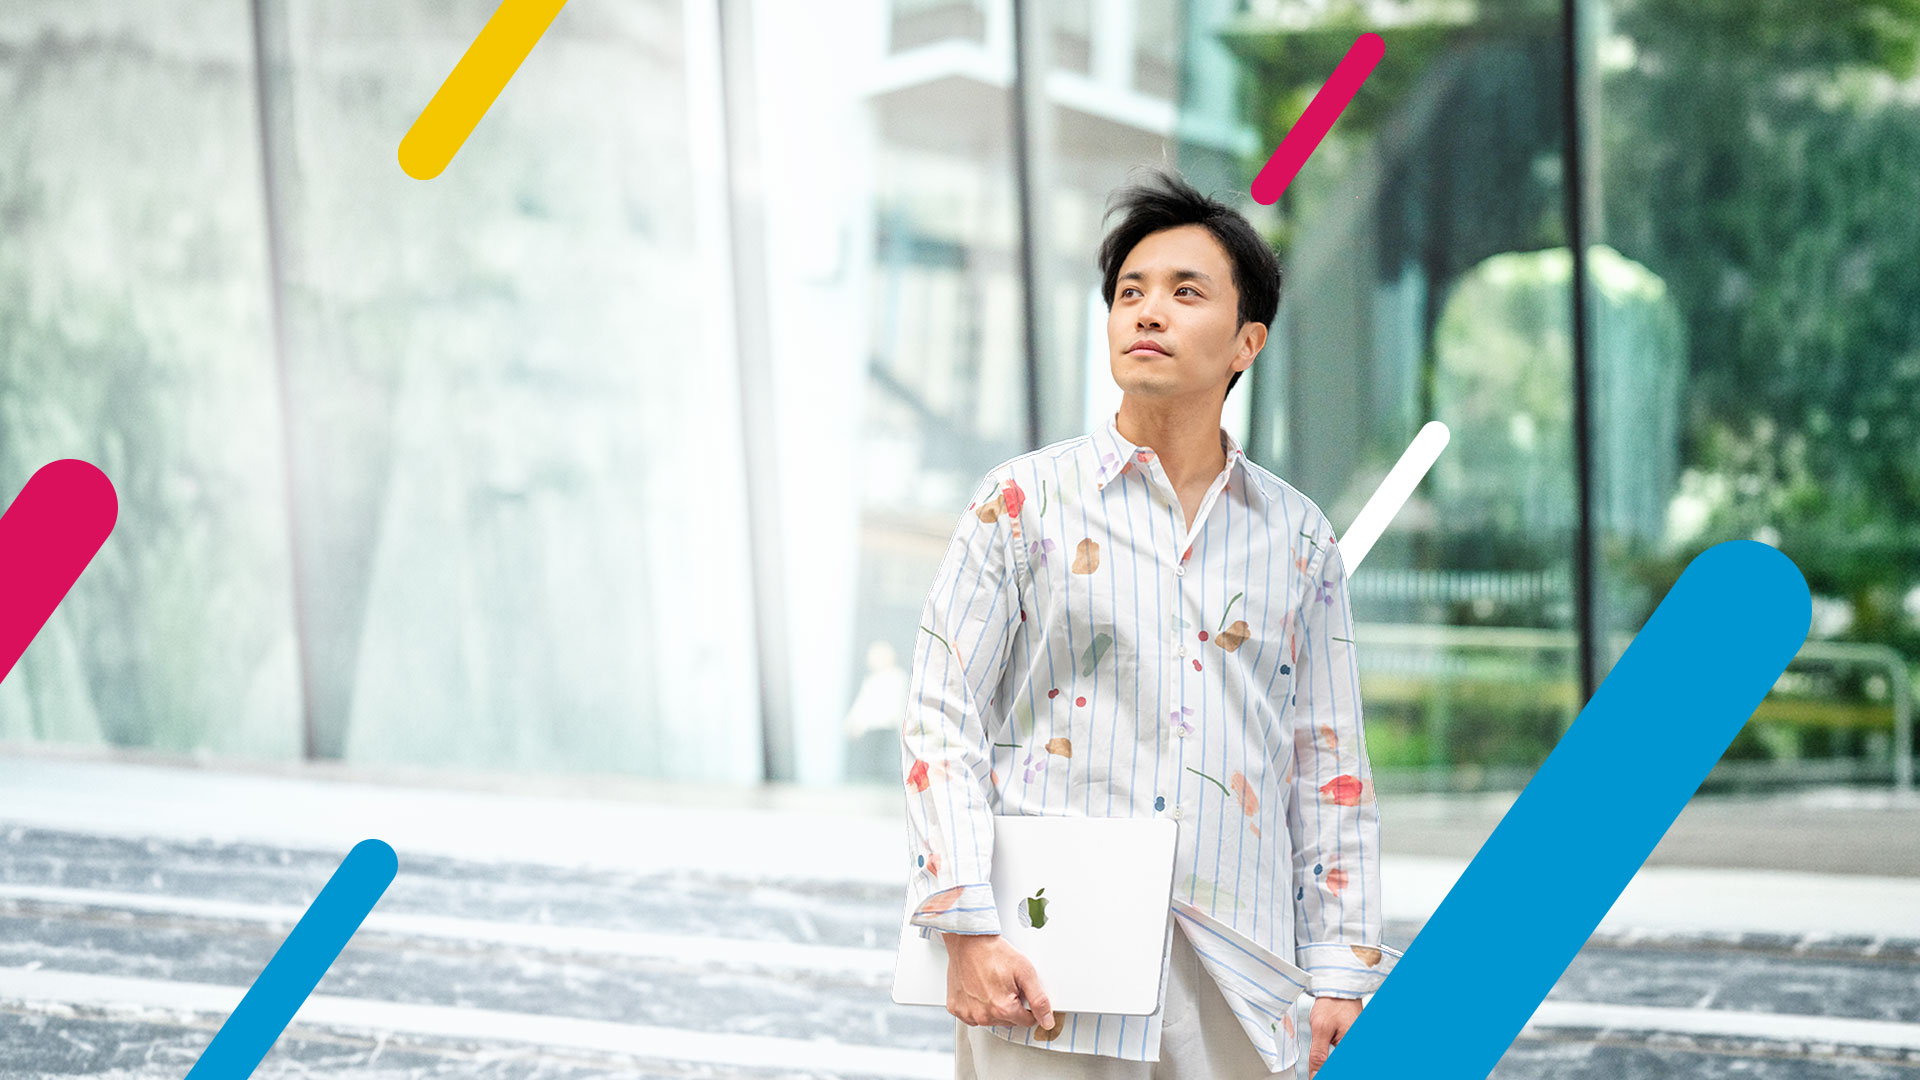
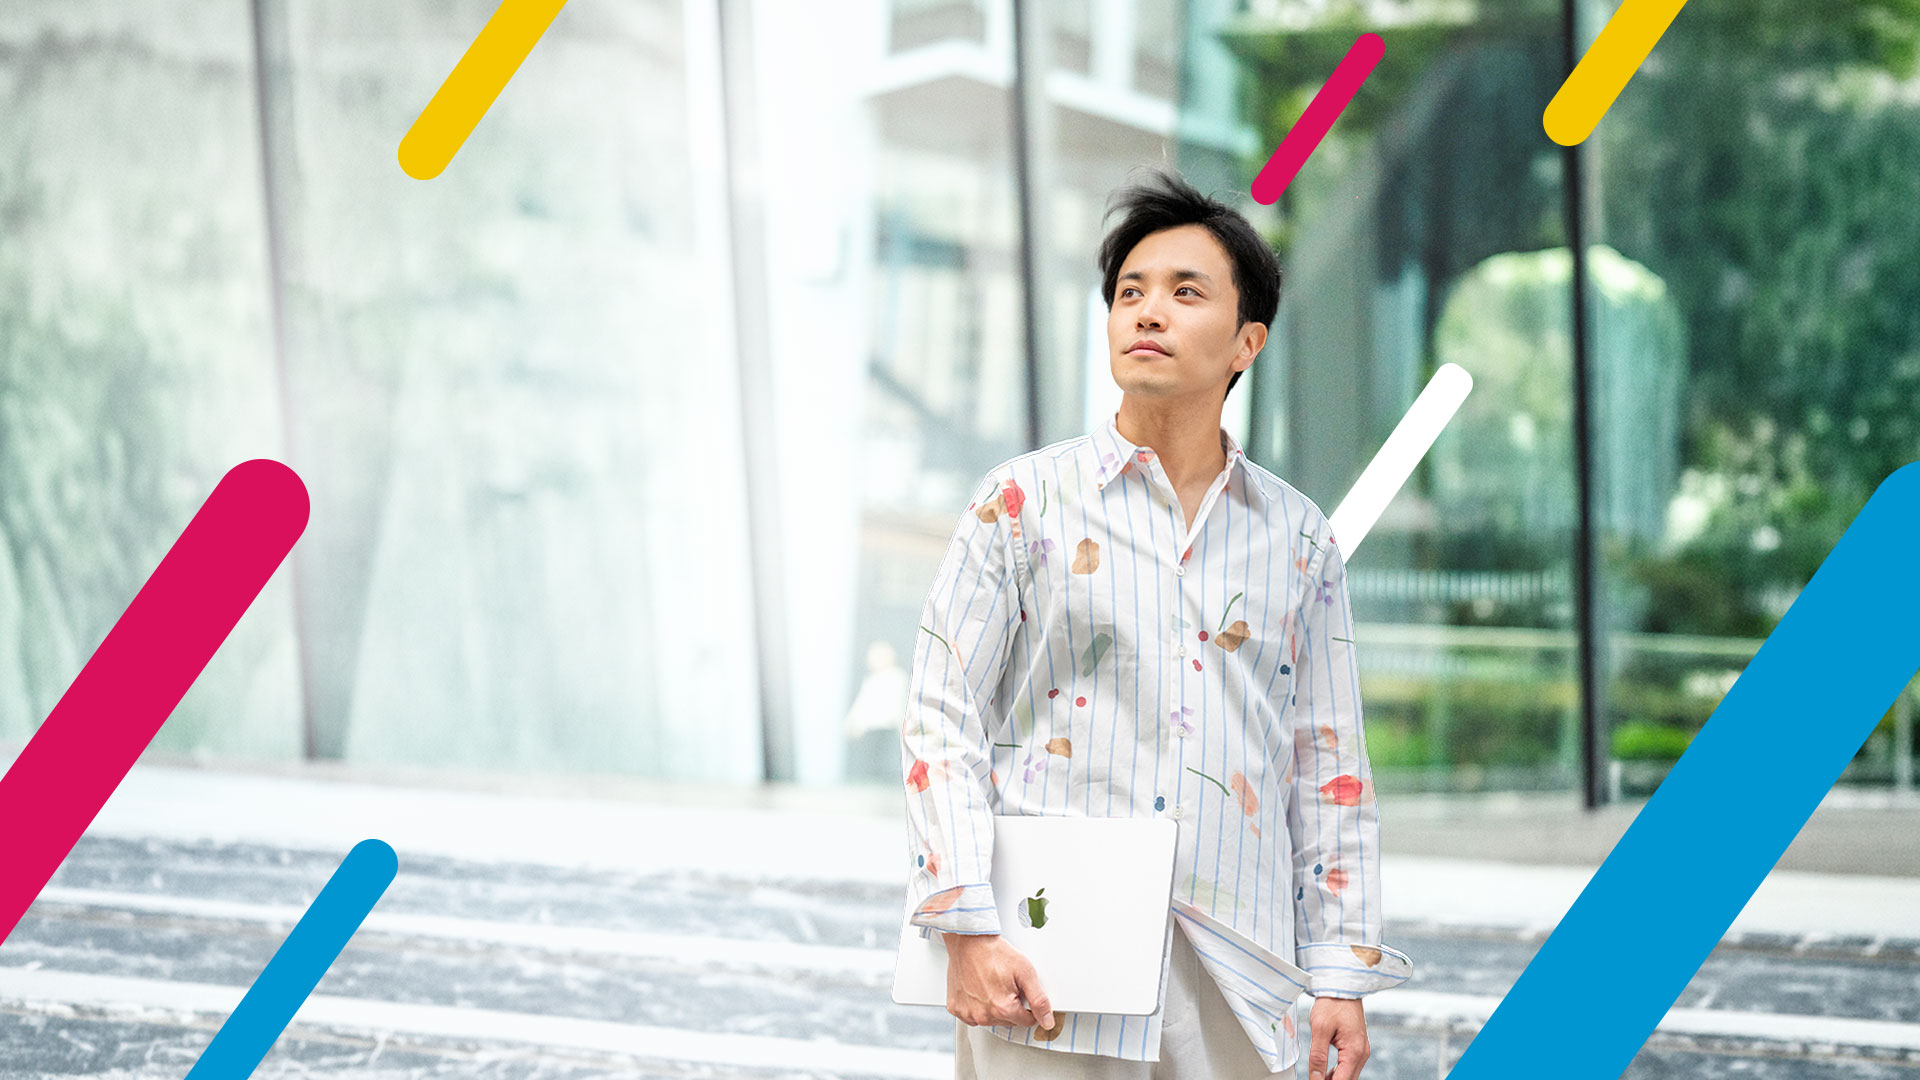
cache bust hero.jpg v2

diff --git a/index.html b/index.html
@@ -49,7 +49,7 @@
     /* ===== HERO ===== */
     .hero-overlay { background: rgba(0,0,0,0.45); }
     @media (min-width: 640px) {
-      #top { background: url('images/hero.jpg') center/100% 100% no-repeat; background-color: #0f172a; }
+      #top { background: url('images/hero.jpg?v=2') center/100% 100% no-repeat; background-color: #0f172a; }
       #hero-img { display: none; }
     }
 
@@ -170,7 +170,7 @@
      HERO
 =================================== -->
 <section id="top" class="relative min-h-screen flex items-center">
-  <img src="images/hero.jpg"
+  <img src="images/hero.jpg?v=2"
        onerror="this.src='https://placehold.co/1920x1080/0f172a/81D8D0?text=Hero+Image'"
        alt="Hero" class="absolute inset-0 w-full h-full object-cover" id="hero-img" />
 